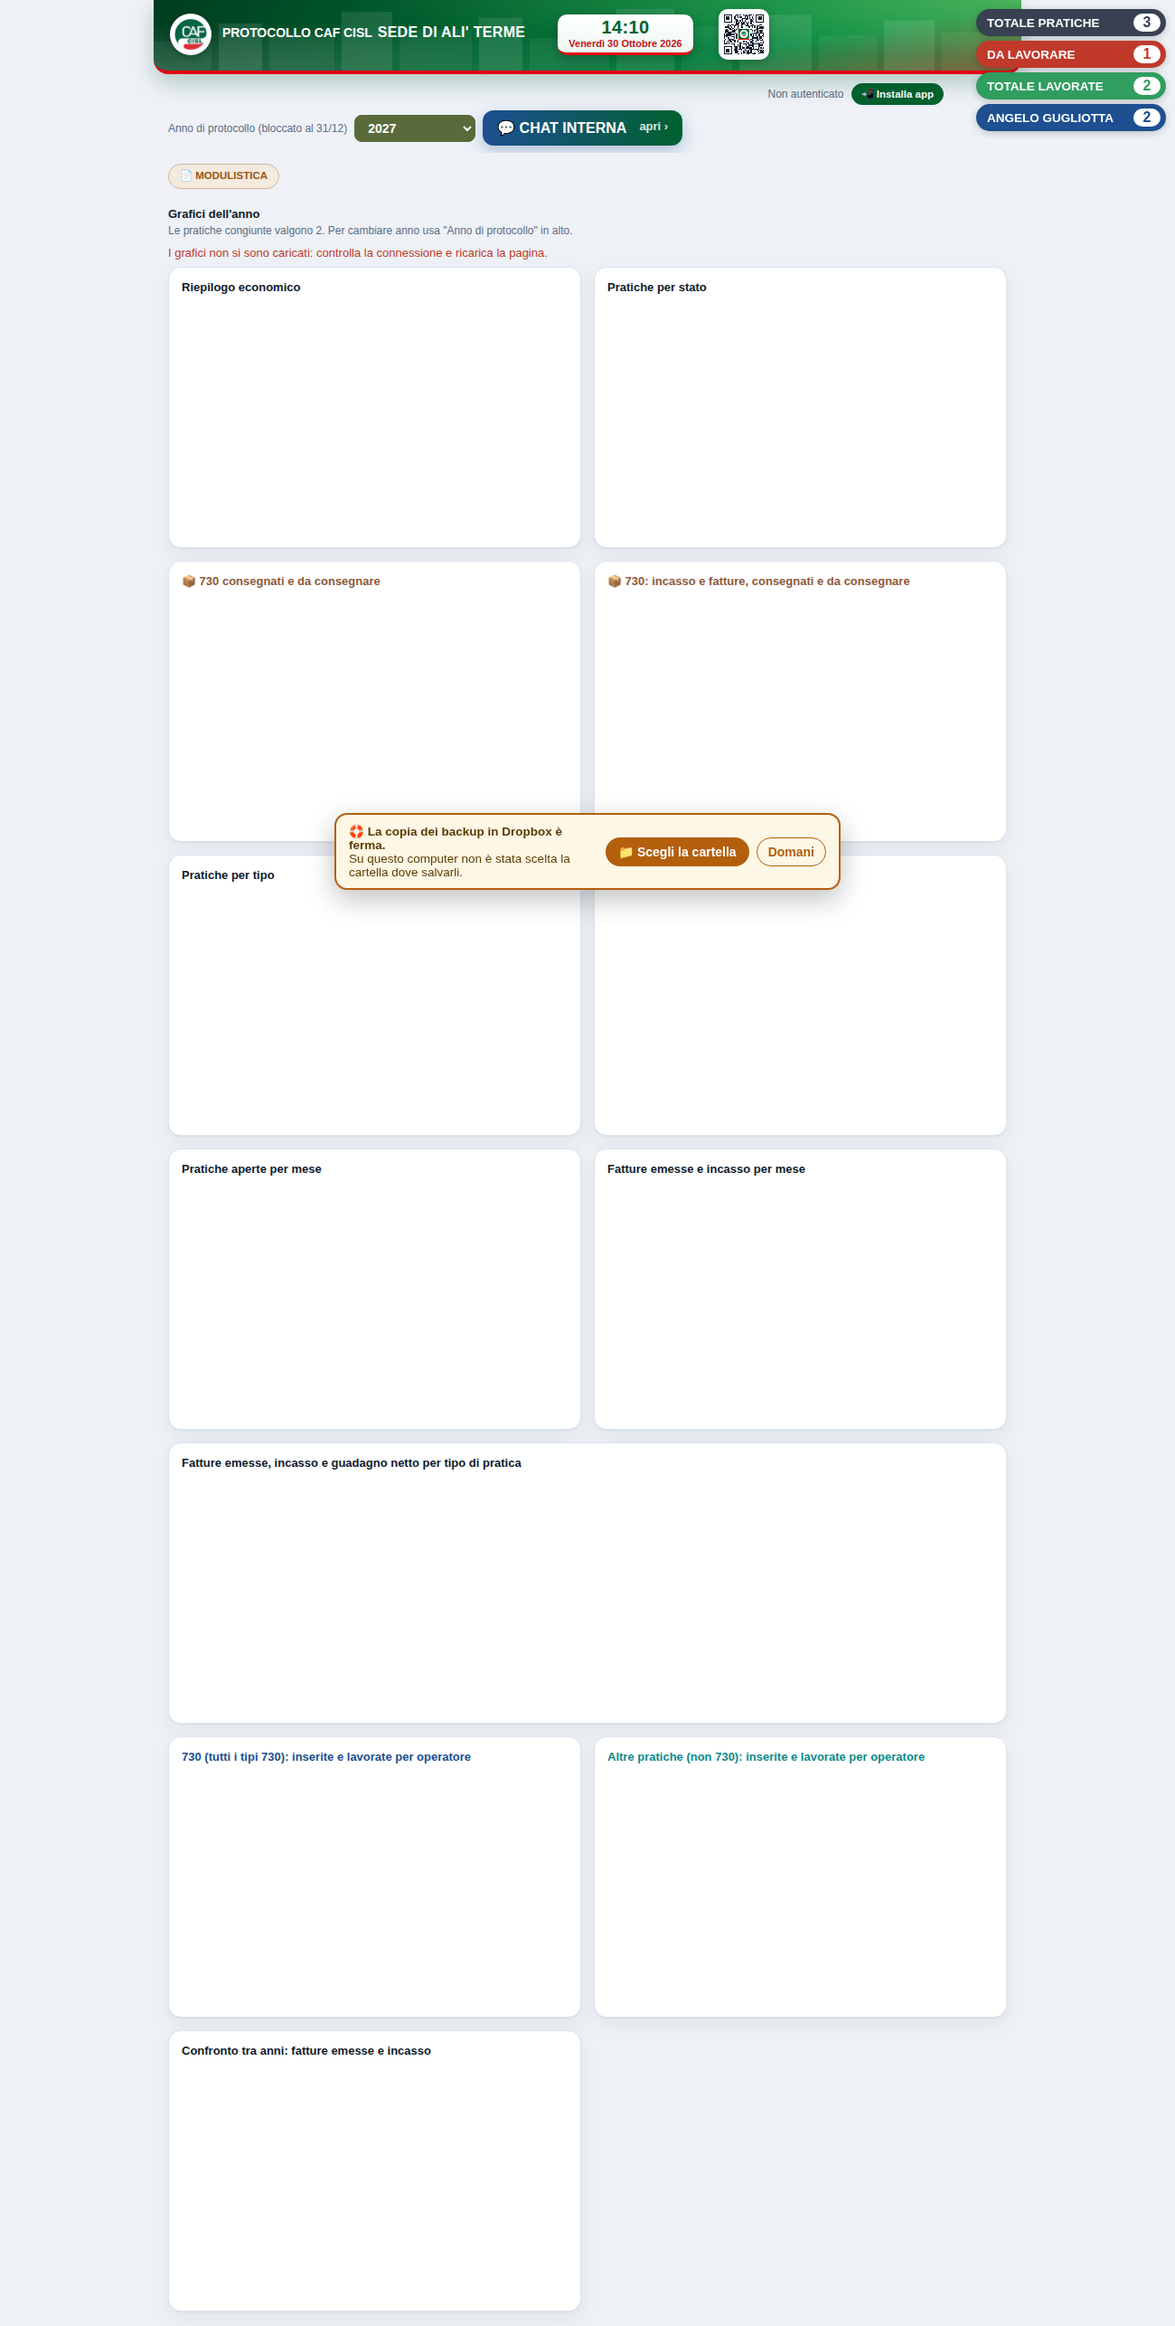
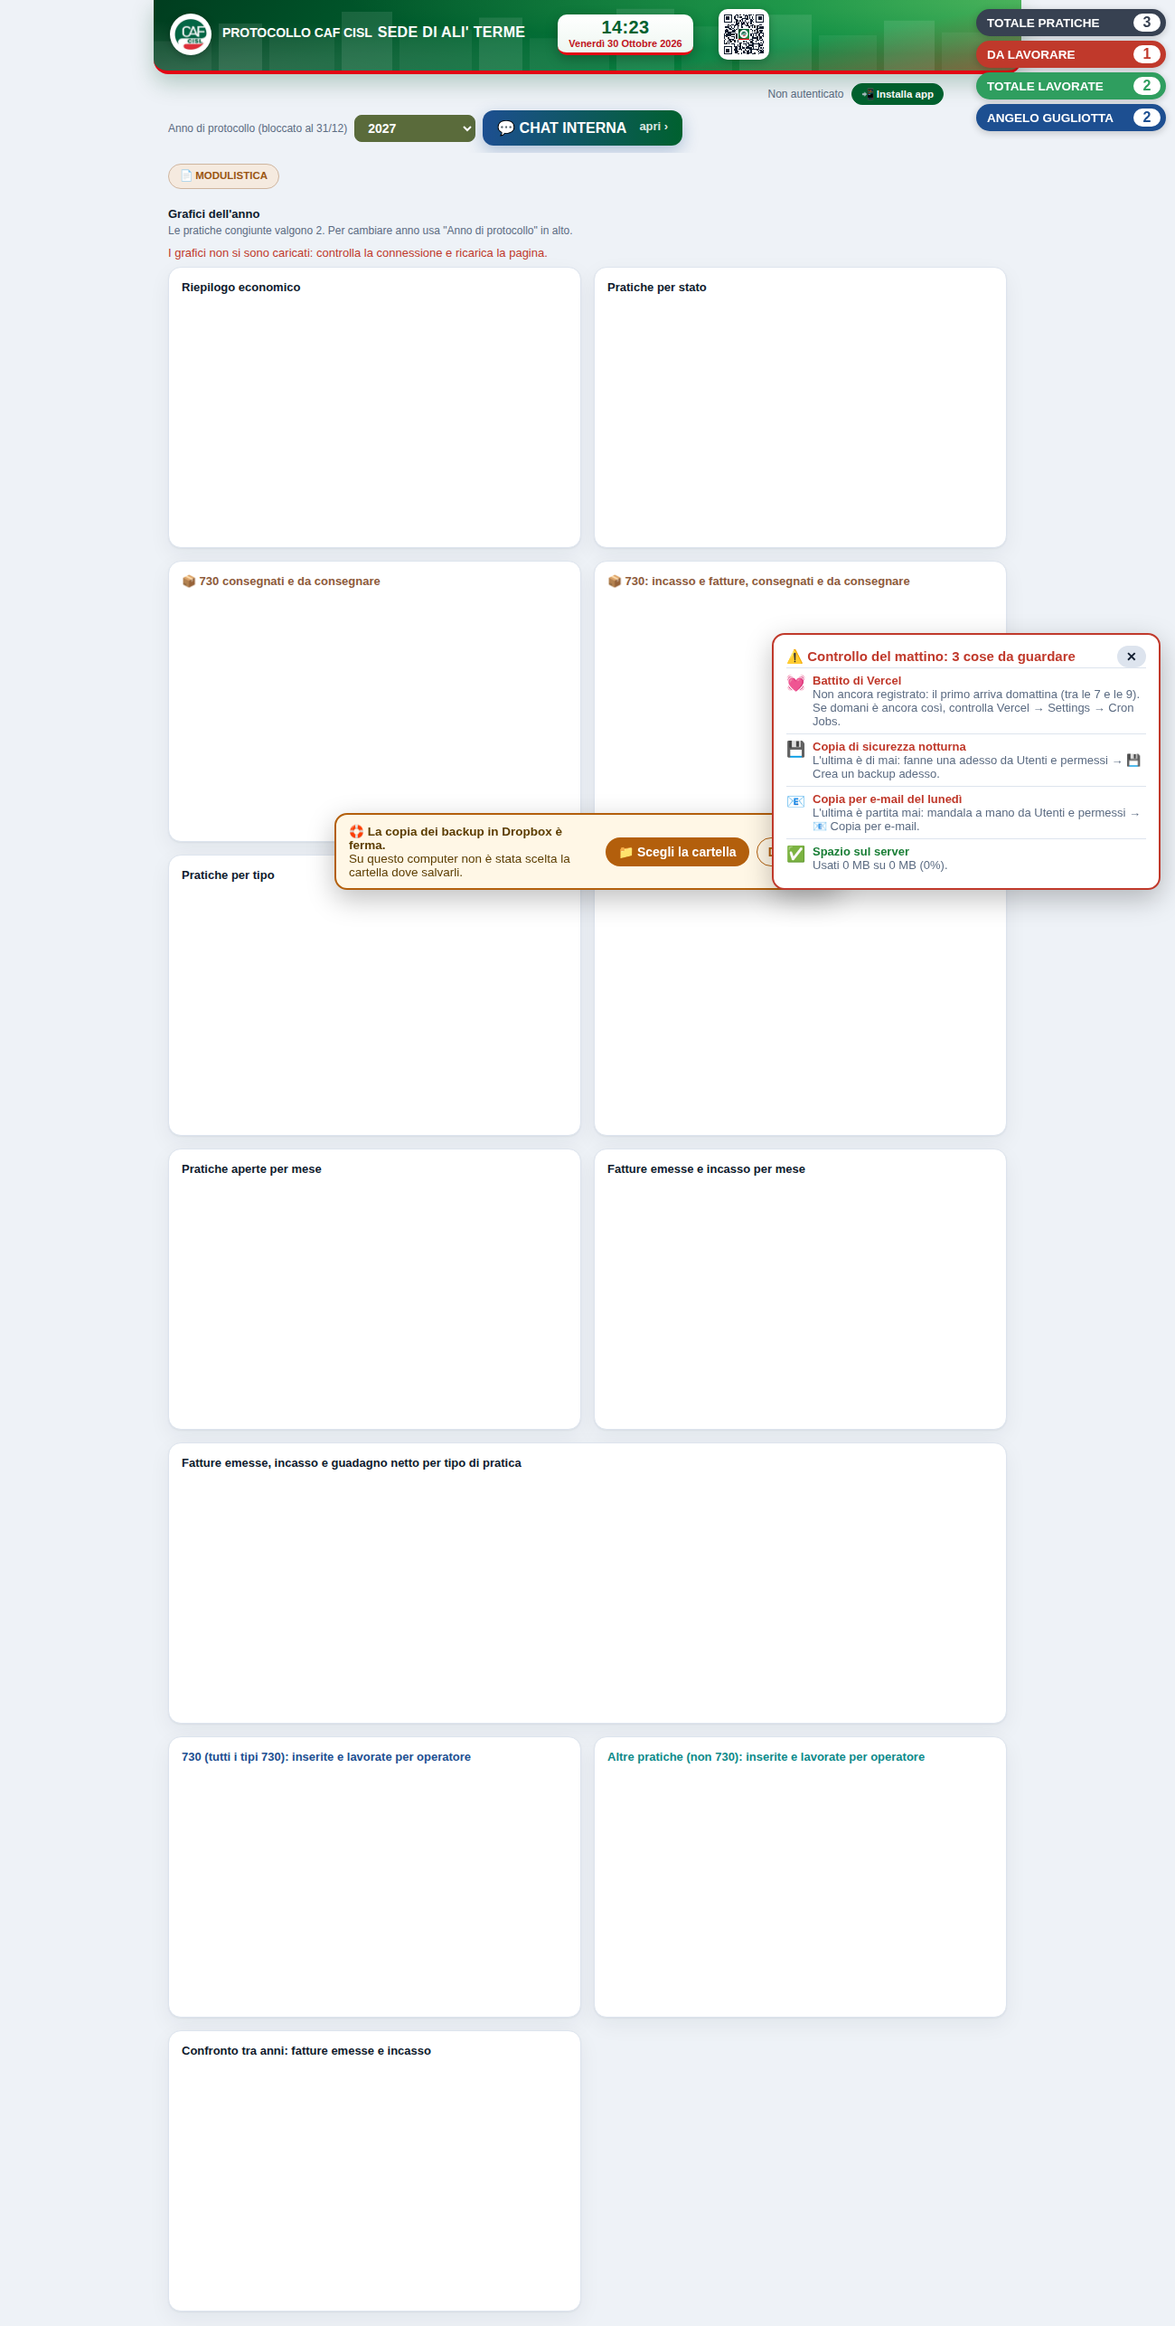
Controllo del mattino: il battito segna l'ora e al primo accesso del giorno l'amministratore vede battito, copie di sicurezza e spazio
Claude-Session: https://claude.ai/code/session_014GRype6JHwDVgmxSiqyFf2

Changed region(s): [[0.6462, 0.2799, 0.9846, 0.4044], [0.9846, 0.2799, 1.0, 0.3733]]

diff --git a/js/controllo-mattino.js b/js/controllo-mattino.js
@@ -1,0 +1,83 @@
+/* ---------------- 💓 Controllo del mattino (solo amministratore) ----------------
+   Al primo accesso del giorno (su ogni PC o telefono) compare in basso a destra un riquadro con lo stato
+   delle cose automatiche che tengono vivo e al sicuro il programma:
+   - 💓 battito di Vercel (api/battito.js segna l'ora in impostazioni.battito_ultimo): tiene sveglio Supabase;
+   - 💾 copia di sicurezza notturna (backup_automatici);
+   - 📧 copia per e-mail del lunedì (impostazioni.backup_email_ultimo);
+   - 💽 spazio sul server.
+   Se è tutto a posto è verde e si chiude da solo; se qualcosa non va resta aperto, in rosso, con cosa fare.
+   Si apre anche a mano da Utenti e permessi («💓 Controllo del mattino»). */
+
+const ORE_BATTITO_OK = 36, ORE_BACKUP_OK = 36, GIORNI_EMAIL_OK = 8;
+
+function quandoMattino(t) {
+  if (!t) return 'mai';
+  const d = new Date(t), oggi = new Date(), ieri = new Date(); ieri.setDate(ieri.getDate() - 1);
+  const ora = d.toLocaleTimeString('it-IT', { hour: '2-digit', minute: '2-digit' });
+  if (d.toDateString() === oggi.toDateString()) return 'oggi alle ' + ora;
+  if (d.toDateString() === ieri.toDateString()) return 'ieri alle ' + ora;
+  return d.toLocaleDateString('it-IT', { weekday: 'long', day: 'numeric', month: 'long' }) + ' alle ' + ora;
+}
+async function vociControlloMattino() {
+  const voci = [];
+  const leggi = async function (chiave) {
+    const r = await fetchSupabase('/rest/v1/impostazioni?select=valore&chiave=eq.' + chiave);
+    return r && r.ok && r.data && r.data[0] ? Date.parse(r.data[0].valore) || 0 : 0;
+  };
+  const ore = function (t) { return t ? (Date.now() - t) / 3600000 : Infinity; };
+  try {
+    const t = await leggi('battito_ultimo');
+    voci.push({ icona: '💓', titolo: 'Battito di Vercel', ok: ore(t) < ORE_BATTITO_OK,
+      testo: ore(t) < ORE_BATTITO_OK ? 'Partito ' + quandoMattino(t) + ': il server resta sveglio.'
+        : t ? 'L\'ultimo è partito ' + quandoMattino(t) + '. Apri Vercel → progetto gestionale-caf → Settings → Cron Jobs e controlla che «/api/battito» sia attivo. Finché usi il programma ogni giorno il server resta sveglio lo stesso.'
+          : 'Non ancora registrato: il primo arriva domattina (tra le 7 e le 9). Se domani è ancora così, controlla Vercel → Settings → Cron Jobs.' });
+  } catch (e) {}
+  try {
+    const r = await fetchSupabase('/rest/v1/backup_automatici?select=creato_il&order=creato_il.desc&limit=1');
+    const t = r && r.ok && r.data && r.data[0] ? Date.parse(r.data[0].creato_il) : 0;
+    voci.push({ icona: '💾', titolo: 'Copia di sicurezza notturna', ok: ore(t) < ORE_BACKUP_OK,
+      testo: ore(t) < ORE_BACKUP_OK ? 'Fatta ' + quandoMattino(t) + '.' : 'L\'ultima è di ' + quandoMattino(t) + ': fanne una adesso da Utenti e permessi → 💾 Crea un backup adesso.' });
+  } catch (e) {}
+  try {
+    const t = await leggi('backup_email_ultimo');
+    voci.push({ icona: '📧', titolo: 'Copia per e-mail del lunedì', ok: ore(t) < GIORNI_EMAIL_OK * 24,
+      testo: ore(t) < GIORNI_EMAIL_OK * 24 ? 'Ultima partita ' + quandoMattino(t) + '.' : 'L\'ultima è partita ' + quandoMattino(t) + ': mandala a mano da Utenti e permessi → 📧 Copia per e-mail.' });
+  } catch (e) {}
+  try {
+    const d = typeof caricaSpazio === 'function' ? await caricaSpazio() : null;
+    if (d) { const p = percentualeSpazio(d); voci.push({ icona: '💽', titolo: 'Spazio sul server', ok: p < 70, testo: 'Usati ' + fmtSpazio(d.totale) + ' su ' + fmtSpazio(d.limite) + ' (' + Math.round(p) + '%).' + (p >= 70 ? ' Valuta di togliere gli anni con più di 5 anni.' : '') }); }
+  } catch (e) {}
+  return voci;
+}
+async function apriControlloMattino(aMano) {
+  const id = 'controllo-mattino';
+  const vecchio = document.getElementById(id); if (vecchio) vecchio.remove();
+  const voci = await vociControlloMattino();
+  if (!voci.length) return;
+  const male = voci.filter(function (v) { return !v.ok; }).length;
+  const colore = male ? '#c0392b' : '#1a7f37';
+  const box = document.createElement('div');
+  box.id = id;
+  box.style.cssText = 'position:fixed; right:16px; bottom:16px; z-index:386; width:min(430px, calc(100vw - 24px)); background:var(--card); color:var(--ink); border:2px solid ' + colore + '; border-radius:14px; box-shadow:0 10px 30px rgba(0,0,0,.25); padding:12px 14px; font-size:13px; max-height:80vh; overflow:auto';
+  box.innerHTML = '<div style="display:flex; justify-content:space-between; align-items:center; gap:8px"><b style="font-size:15px; color:' + colore + '">' + (male ? '⚠ Controllo del mattino: ' + male + (male === 1 ? ' cosa da guardare' : ' cose da guardare') : '✅ Controllo del mattino: tutto a posto') + '</b>'
+    + '<button type="button" data-chiudi style="background:var(--line); color:var(--ink); border:none; border-radius:999px; padding:4px 10px; cursor:pointer">✕</button></div>'
+    + voci.map(function (v) {
+        return '<div style="display:flex; gap:8px; padding:6px 0; border-top:1px solid var(--line)"><span style="font-size:17px">' + (v.ok ? '✅' : v.icona) + '</span><span><b style="color:' + (v.ok ? '#1a7f37' : '#c0392b') + '">' + esc(v.titolo) + '</b><div style="color:var(--sub)">' + esc(v.testo) + '</div></span></div>';
+      }).join('');
+  box.querySelector('[data-chiudi]').onclick = function () { box.remove(); };
+  document.body.appendChild(box);
+  // tutto a posto: si chiude da solo dopo 20 secondi (se non lo si apre a mano)
+  if (!male && !aMano) setTimeout(function () { if (box.isConnected) box.remove(); }, 20000);
+}
+// al primo accesso del giorno dell'amministratore, una volta per ogni PC o telefono
+(function () {
+  const oggi = function () { const d = new Date(); return d.getFullYear() + '-' + (d.getMonth() + 1) + '-' + d.getDate(); };
+  const prova = function () {
+    if (typeof isAdmin !== 'function' || !isAdmin() || document.hidden) return;
+    let visto = ''; try { visto = localStorage.getItem('controllo-mattino-giorno') || ''; } catch (e) {}
+    if (visto === oggi()) return;
+    try { localStorage.setItem('controllo-mattino-giorno', oggi()); } catch (e) {}
+    apriControlloMattino(false);
+  };
+  setTimeout(prova, 6000); setInterval(prova, 60000);
+})();

diff --git a/js/guida.js b/js/guida.js
@@ -282,6 +282,7 @@ const GUIDA = [
 <li><b>💬 WhatsApp multiplo</b> nel Registro avvisa in sequenza tutte le pratiche lavorate. Le pratiche con lo <b>stesso cellulare</b> (es. clienti di un collaboratore che usano il suo numero, o una famiglia) partono in <b>un solo messaggio</b> con l'elenco di tutti i nominativi e i protocolli; ogni pratica risulta comunque «avvisata» e il messaggio resta nelle comunicazioni di ogni cliente.</li>
 <li><b>🔔 Sollecito di ritiro</b> (dal <b>7 ottobre</b>): nella pagina <b>Oggi</b> compare il riquadro <b>«Pronte non ritirate: sollecito»</b> con le pratiche dell'anno già pronte e non ancora consegnate. Toccandolo si apre l'elenco (già selezionati quelli con il cellulare non sollecitati negli ultimi 15 giorni) e, come nel WhatsApp multiplo, per ogni cliente si apre WhatsApp con il messaggio già scritto: «la sua pratica è pronta già da tempo e non è ancora stata ritirata, la preghiamo di passare a ritirarla…». Stesso cellulare = un solo messaggio. Ogni sollecito resta nelle comunicazioni del cliente (<b>Sollecito ritiro</b>) e nell'elenco si vede «sollecitato il …». Per chi non ha il cellulare compare il telefono fisso da chiamare.</li>
 <li><b>🧹 Controllo di fine anno</b> (solo amministratore): dal <b>15 dicembre al 31 gennaio</b> nella pagina <b>Oggi</b> compare il riquadro <b>«Pronti per il nuovo anno?»</b>; si apre anche in ogni momento da <b>Utenti e permessi → 🧹 Controllo di fine anno</b>. È una lista di controllo: pratiche ancora da lavorare, pronte non ritirate, non pagate, da fatturare, contratti colf da portare nel nuovo anno, documenti da chiedere, dati da controllare in archivio, dati del CAF nei messaggi, copie di sicurezza, utenti che non entrano da 3 mesi, anni con più di 5 anni (e, per l'anno di prova, le pratiche di prova da togliere). Ogni voce è ✅ se è a posto o segnata se c'è da fare, con il tasto che apre la pagina giusta. <b>Non cancella e non cambia niente da sola.</b></li>
+<li><b>💓 Controllo del mattino</b> (solo amministratore): al <b>primo accesso del giorno</b>, su ogni PC o telefono, compare in basso a destra un riquadro con lo stato delle cose automatiche: <b>battito di Vercel</b> (tiene sveglio il server, parte ogni mattina tra le 7 e le 9), <b>copia di sicurezza notturna</b>, <b>copia per e-mail del lunedì</b> e <b>spazio sul server</b>. Se è tutto ✅ è verde e si chiude da solo dopo 20 secondi; se qualcosa non va resta aperto in rosso e dice cosa fare. Si apre anche a mano da <b>Utenti e permessi → 💓 Controllo del mattino</b>.</li>
 <li><b>💽 Spazio sul server</b> (solo amministratore, in <b>Utenti e permessi</b>, sopra i backup): quanto spazio usano i dati sui <b>500 MB</b> del piano gratuito e quanto ne resta, con una barra a colori divisa per tipo (archivio clienti, pratiche, contabilità, messaggi, copie di sicurezza, base fissa del server). Dal secondo mese dice anche di quanto cresce al mese e per quanti anni basta lo spazio. Se si supera il 70% compare un riquadro anche nella pagina <b>Oggi</b>, e la voce è anche nel controllo di fine anno. I documenti PDF dei clienti non stanno sul server.</li>
 <li><b>🗄 Anni con più di 5 anni</b>: si tengono gli ultimi 5 anni. Nel controllo di fine anno (a dicembre 2032, per esempio, per il 2027) compare la voce con il tasto <b>🗄 Vedi gli anni</b>: per ogni anno vecchio c'è <b>💾 Scarica la copia</b> (un file con solo quell'anno, da tenere sul PC o su una chiavetta) e <b>🗑 Cancella</b> (chiede di scrivere l'anno, fa prima da solo un backup completo; l'archivio clienti resta). <b>Decidi tu</b>: se non lo cancelli resta, e l'anno dopo te lo ripropone insieme al successivo (per esempio il 2027 e il 2028). Per rimettere un anno cancellato: <b>Utenti e permessi → Importa Backup</b> e scegli il file <b>copia-anno-…</b>: riporta solo quell'anno, senza toccare gli altri dati.</li>
 <li><b>💡 Guadagno quando avrai consegnato tutto</b>: le fatture contano alla consegna, mentre gli acconti entrano subito nell'incasso; per questo, sotto il <b>Guadagno netto</b> (pagina Oggi e Contabilità), una riga dice quanto sarà il guadagno quando avrai consegnato tutte le pratiche (guadagno netto meno le fatture ancora in attesa di consegna).</li>

diff --git a/index.html b/index.html
@@ -992,6 +992,7 @@ body{height:auto; min-height:100%} /* altrimenti il menu fisso si ferma dopo la 
   <p style="font-size:12.5px; color:var(--sub); margin:0 0 10px">Ogni lunedì notte il programma salva da solo una copia <b>completa di tutti gli anni</b> (pratiche, clienti, versamenti, scadenze, spese sede, acconti, tipi e impostazioni). Una copia viene fatta anche prima di svuotare il registro, di importare o di ripristinare un backup. Si tengono le ultime 12 settimane; il <b>31 dicembre</b> alle 23:30 viene fatto il salvataggio di fine anno, che si conserva per sempre. Nella cartella (es. Dropbox) ci sono <b>backup-completo.json</b> (sempre il più recente) e un file per anno, <b>salvataggi-2026.json</b>…: <b>ogni file contiene tutti i dati</b>, non solo quell'anno. Per rimettere tutto com'era usa <b>↩ Ripristina</b> accanto a un backup, oppure "Importa Backup" con uno di questi file.</p>
   <button type="button" class="btn-add" onclick="creaBackupOra()">💾 Crea un backup adesso</button>
   <button type="button" class="btn-add" style="background:#1d4f91" onclick="inviaBackupEmailOra(this)" title="Ogni lunedì parte da sola; da qui la mandi subito (al massimo una ogni 5 giorni)">📧 Copia per e-mail alla casella del CAF</button>
+  <button type="button" class="btn-add" style="background:#1a7f37" onclick="apriControlloMattino(true)" title="Battito di Vercel, copia notturna, copia per e-mail e spazio: compare da solo al primo accesso del giorno">💓 Controllo del mattino</button>
   <button type="button" class="btn-add" style="background:var(--line); color:#1d4f91" onclick="provaCasellaRiserva(this)" title="Manda un'e-mail di prova dalla casella di riserva (cafcislaliterme@tim.it) a se stessa">🧪 Prova la casella di riserva</button>
   <div id="backup-lista" style="margin-top:10px"></div>
 
@@ -1083,7 +1084,7 @@ document.addEventListener('DOMContentLoaded', function() {
 <script src="js/cisl.js?v=6"></script>
 <script src="js/documenti.js?v=20261029a"></script>
 <script src="js/installa.js?v=5"></script>
-<script src="js/guida.js?v=20261030c"></script>
+<script src="js/guida.js?v=20261030d"></script>
 <script src="js/scadenze.js?v=20261029c"></script>
 <script src="js/config.js?v=202610079"></script>
 <script src="js/auth.js?v=202610049"></script>
@@ -1101,6 +1102,7 @@ document.addEventListener('DOMContentLoaded', function() {
 <script src="js/fine-anno.js?v=3"></script>
 <script src="js/anni-vecchi.js?v=1"></script>
 <script src="js/spazio-server.js?v=1"></script>
+<script src="js/controllo-mattino.js?v=1"></script>
 <script src="js/anno-precedente.js?v=2"></script>
 <script src="js/menu-frecce.js?v=1"></script>
 <script src="js/email.js?v=20261029e"></script>

diff --git a/api/battito.js b/api/battito.js
@@ -1,6 +1,8 @@
 // 💓 Battito quotidiano: Vercel lo chiama ogni giorno (vercel.json → crons) e fa una piccola lettura su Supabase.
 // Così il progetto gratuito di Supabase non va in pausa dopo 7 giorni senza uso (Natale, agosto, chiusure lunghe).
 // Usa solo la chiave pubblica del programma (la stessa di js/config.js): non legge né cambia dati riservati.
+// Segna l'ora del battito (funzione registra_battito → impostazioni.battito_ultimo): il programma la mostra
+// all'amministratore nel controllo del mattino (js/controllo-mattino.js).
 const SUPABASE_URL = 'https://mmaqmprukghyazlibphv.supabase.co';
 const SUPABASE_ANON_KEY = 'eyJhbGciOiJIUzI1NiIsInR5cCI6IkpXVCJ9.eyJpc3MiOiJzdXBhYmFzZSIsInJlZiI6Im1tYXFtcHJ1a2doeWF6bGlicGh2Iiwicm9sZSI6ImFub24iLCJpYXQiOjE3OTA5NDUyMTUsImV4cCI6MjEwNjUyMTIxNX0.ByRES--bYHZG6o_BX8Ha0YzqfcQIIr-D08Q-AbR8bhs';
 
@@ -8,9 +10,10 @@ export default async function handler(req, res) {
   res.setHeader('Cache-Control', 'no-store');
   const inizio = Date.now();
   try {
-    const r = await fetch(SUPABASE_URL + '/rest/v1/impostazioni?select=chiave&limit=1', {
-      headers: { apikey: SUPABASE_ANON_KEY, Authorization: 'Bearer ' + SUPABASE_ANON_KEY }
-    });
+    const h = { apikey: SUPABASE_ANON_KEY, Authorization: 'Bearer ' + SUPABASE_ANON_KEY, 'Content-Type': 'application/json' };
+    let r = await fetch(SUPABASE_URL + '/rest/v1/rpc/registra_battito', { method: 'POST', headers: h, body: '{}' });
+    // se la funzione non risponde, basta una piccola lettura per tenere sveglio il progetto
+    if (!r.ok) r = await fetch(SUPABASE_URL + '/rest/v1/impostazioni?select=chiave&limit=1', { headers: h });
     return res.status(200).json({ ok: r.ok, stato: r.status, ms: Date.now() - inizio, quando: new Date().toISOString() });
   } catch (e) {
     return res.status(502).json({ ok: false, errore: String(e && e.message || e) });

diff --git a/PROMEMORIA.md b/PROMEMORIA.md
@@ -56,6 +56,7 @@ Va letto **prima** di modificare qualcosa. Aggiornato al 24/10/2026. L'uso vero 
   - `scadenza-730.js`: avviso di settembre con i 730 da definire entro il 30/09;
 - `js/sollecito-ritiro.js`: 🔔 sollecito di ritiro dal 7 ottobre (riquadro in Oggi, WhatsApp uno per volta, stesso cellulare = un messaggio, motivo «Sollecito ritiro» nelle comunicazioni).
 - `js/fine-anno.js`: 🧹 controllo di fine anno «Pronti per il nuovo anno?» (riquadro Oggi solo admin dal 15/12 al 31/01, tasto in Utenti e permessi). Solo lista di controllo con tasti verso le pagine: non cancella niente da sola.
+- `js/controllo-mattino.js`: 💓 riquadro al primo accesso del giorno dell'admin (localStorage `controllo-mattino-giorno`): battito (`impostazioni.battito_ultimo`, scritto da `api/battito.js` con la RPC `registra_battito()` per anon, migrazione 038; ok se < 36 ore), copia notturna (< 36 ore), copia e-mail (< 8 giorni), spazio. Verde si chiude dopo 20 s, rosso resta. Tasto anche in Utenti e permessi.
 - `js/spazio-server.js`: 💽 «Spazio sul server» in Utenti e permessi (sopra i backup): RPC `spazio_database()` (migrazione 037, solo admin) dà totale, limite 500 MB, spazio per gruppo di tabelle e salva il valore del mese in `impostazioni.spazio_mesi` (serve per la crescita al mese e gli anni che restano). Riquadro in Oggi e voce nel controllo di fine anno solo oltre il 70%. Il 30/10/2026: 14,8 MB, di cui 12,3 di base fissa di Supabase.
 - `js/anni-vecchi.js`: 🗄 «Anni con più di 5 anni» (ANNI_DA_CONSERVARE=5), voce del controllo di fine anno. Per ogni anno ≤ anno chiuso − 5: «💾 Scarica la copia» (file `copia-anno-AAAA-…json`, versione 'anno', solo righe di quell'anno: pratiche, scadenze, buste_paga, pratiche_avvisi, versamenti, spese_sede) e «🗑 Cancella» (`eseguiSvuotaAnno` in extra.js, backup prima). Mai automatico: se non cancella, l'anno dopo li ripropone tutti. «Importa Backup» con un file `copia-anno-*` chiama `riportaAnnoDaCopia`: rimette solo quell'anno (ignore-duplicates), senza toccare il resto.
 - `js/anno-precedente.js`: 💶 nell'inserimento, scelto il cliente (archivio o CF scritto), riquadro con le sue pratiche dell'anno prima (fatturato/richiesto/pagato, anche come coniuge); una volta per cliente per sessione.
